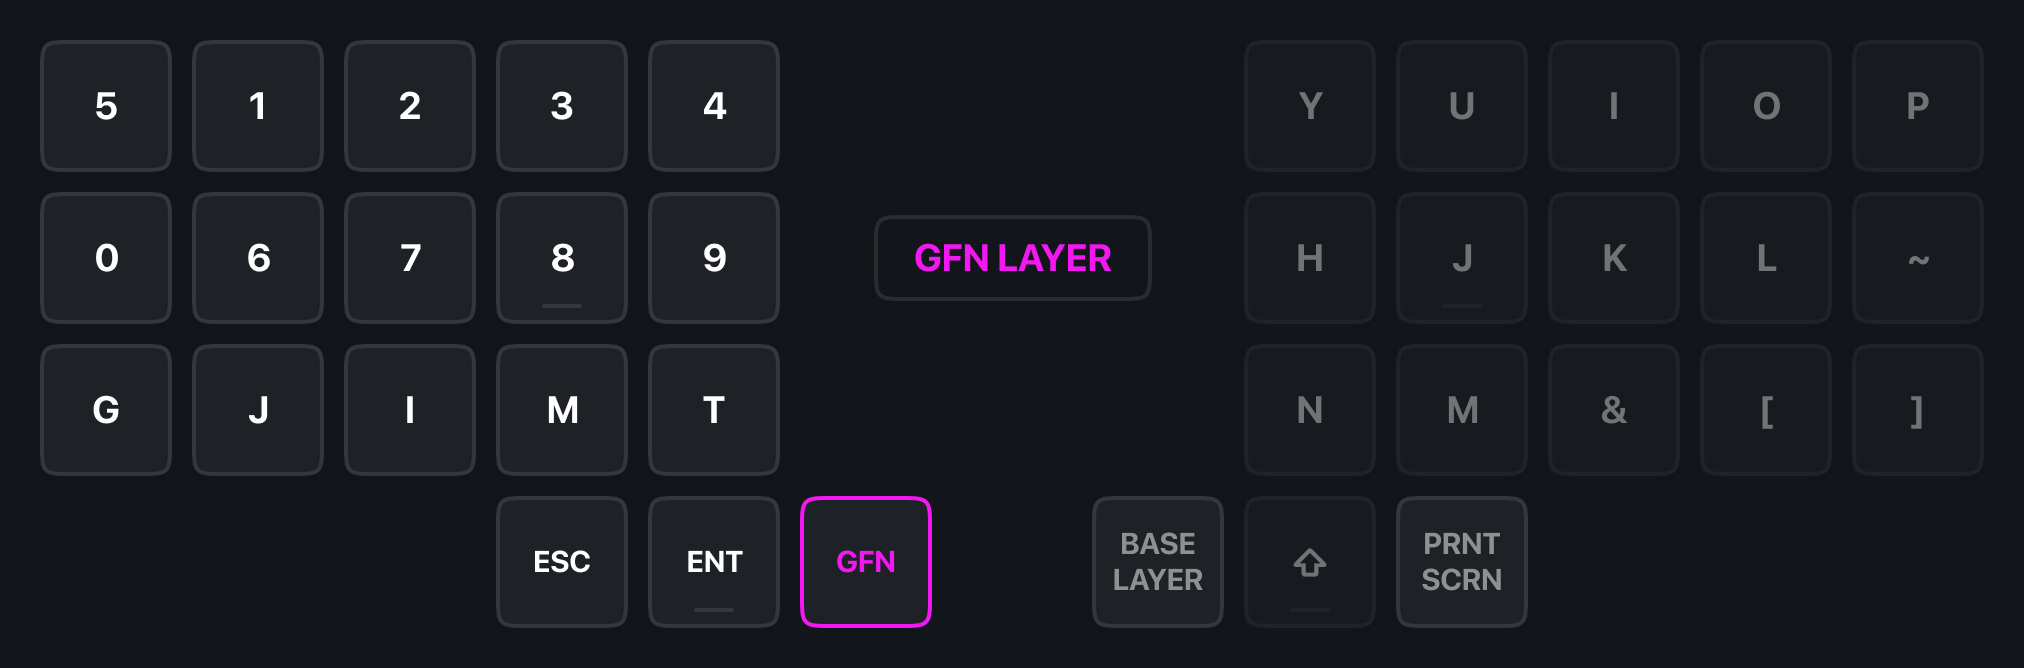
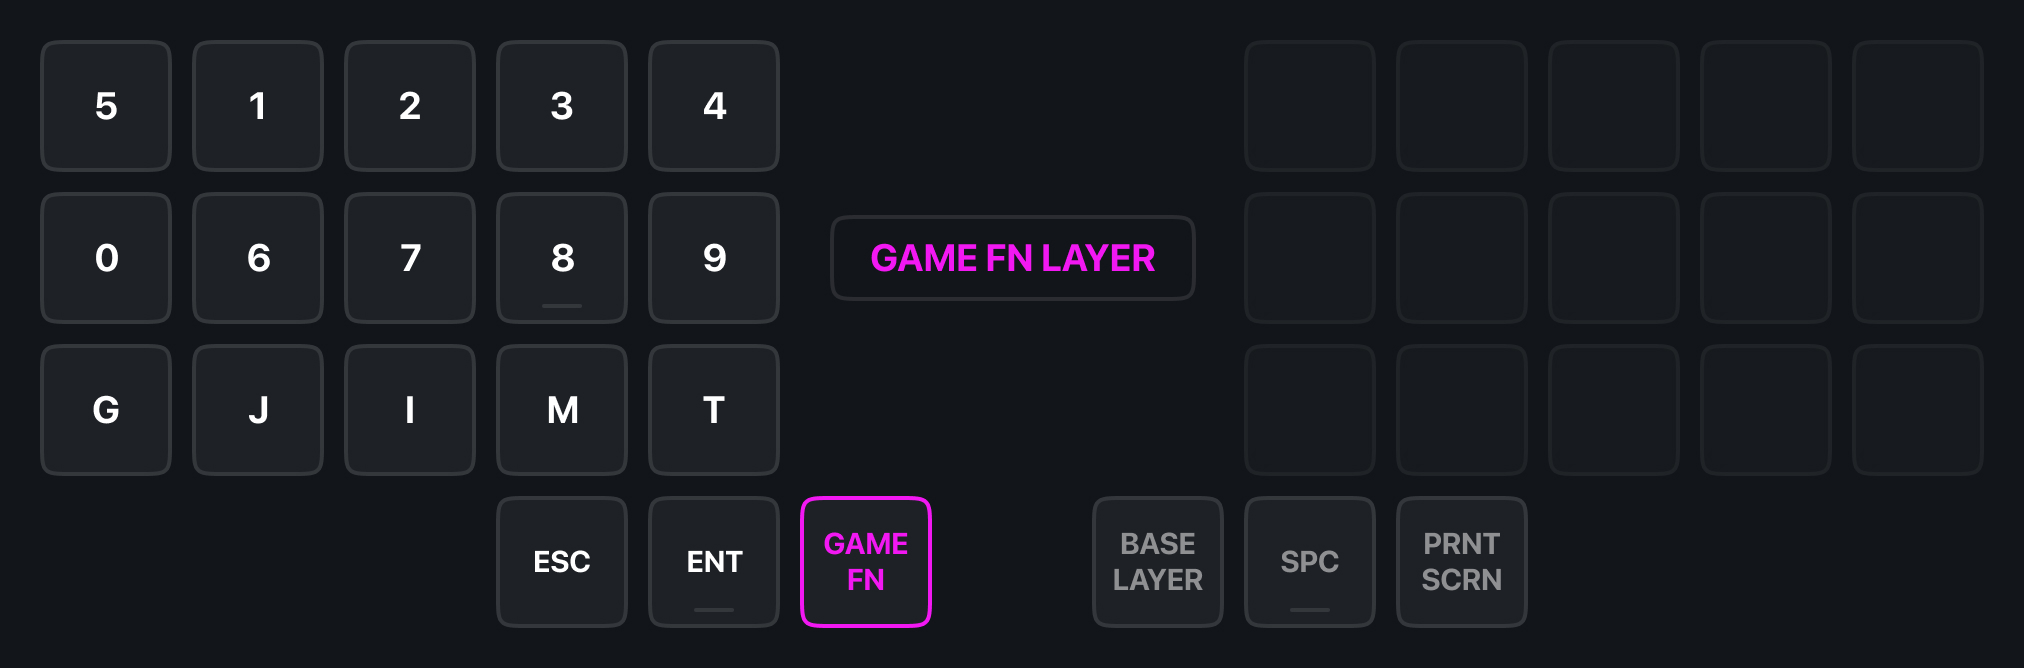
feat: modified GAM and GFN layouts, update images

diff --git a/firmware/keymap.c b/firmware/keymap.c
@@ -61,10 +61,10 @@ const uint16_t PROGMEM keymaps[][MATRIX_ROWS][MATRIX_COLS] = {
     ),
 
     [_GFN] = LAYOUT_split_3x5_3(
-        KC_5,    KC_1,    KC_2,    KC_3,    KC_4,           KC_Y,    KC_U,    KC_I,    KC_O,    KC_P,
-        KC_0,    KC_6,    KC_7,    KC_8,    KC_9,           KC_H,    KC_J,    KC_K,    KC_L,    KC_SCLN,
-        KC_G,    KC_J,    KC_I,    KC_M,    KC_T,           KC_N,    KC_M,    KC_COMM, KC_DOT,  KC_SLSH,
-                          KC_ESC,  KC_ENT, _______,        _______, _______, _______
+        KC_5,    KC_1,    KC_2,    KC_3,    KC_4,           KC_NONE,  KC_NONE, KC_UP,   KC_NONE,  KC_TAB,
+        KC_0,    KC_6,    KC_7,    KC_8,    KC_9,           KC_NONE,  KC_LEFT, KC_DOWN, KC_RGHT,  KC_RSFT,
+        KC_G,    KC_J,    KC_I,    KC_M,    KC_T,           KC_NONE,  KC_NONE, KC_NONE, KC_NONE,  KC_RCTL,
+                          KC_ESC,  KC_ENT, _______,         _______, _______, _______
     ),
 
     [_SYM] = LAYOUT_split_3x5_3(
@@ -77,7 +77,7 @@ const uint16_t PROGMEM keymaps[][MATRIX_ROWS][MATRIX_COLS] = {
     [_NAV] = LAYOUT_split_3x5_3(
         SW_TAB,  SW_WIN,  TAB_L,   TAB_R,   KC_ESC,         KC_ESC,  KC_HOME, KC_END,  KC_BSPC, KC_DEL,
         OS_CMD,  OS_ALT,  OS_CTRL, OS_SHFT, KC_ENT,         KC_ENT,  KC_LEFT, KC_DOWN, KC_UP,   KC_RGHT,
-        SPACE_L, SPACE_R, DF(_GAM), KC_PSCR, KC_TAB,        KC_TAB,  KC_PGUP, KC_PGDN, XXXXXXX, XXXXXXX,
+        SPACE_L, SPACE_R, DF(_GAM), KC_PSCR, KC_TAB,        KC_TAB,  KC_PGUP, KC_PGDN, KC_QUOT, KC_NUM,
                           _______, _______, _______,        _______, _______, _______
     ),
 

diff --git a/README_RU.md b/README_RU.md
@@ -25,9 +25,9 @@
 
 ## О прошивке
 
-Прошивка/раскладка предназначена для использования с [Universal Layout](https://github.com/braindefender/universal-layout) — системной раскладкой для Windows, Linux и macOS. На странице проекта можно найти все необходимые инструкции по установке и модификации этой раскладки.
+Прошивка/раскладка предназначена для использования с [Universal Layout](https://github.com/braindefender/universal-layout) — системной раскладкой для Windows, Linux и macOS. На странице проекта можно найти все необходимые инструкции по установке и модификации этой раскладки.
 
-Прошивка/раскладка основана на [callum](https://github.com/callum-oakley/qmk_firmware/tree/master/users/callum) и работает на [QMK](https://docs.qmk.fm/), предназначенном для проводных клавиатур. Версия для беспроводных клавиатур, работающих на [ZMK](https://zmk.dev/docs) находится в разработке.
+Прошивка/раскладка основана на [callum](https://github.com/callum-oakley/qmk_firmware/tree/master/users/callum) и работает на [QMK](https://docs.qmk.fm/), предназначенном для проводных клавиатур. Версия для беспроводных клавиатур, работающих на [ZMK](https://zmk.dev/docs) находится в разработке.
 
 ## Термины
 
@@ -39,7 +39,7 @@
 - Удерживайте <kbd>SYM</kbd> чтобы активировать слой символов.
 - Удерживайте <kbd>NAV</kbd> чтобы активировать слой навигации.
 - Удерживайте <kbd>SYM</kbd> и <kbd>NAV</kbd> вместе, чтобы активировать слой с цифрами.
-- Удерживайте <kbd>ALT</kbd> чтобы активировать слой спец. символов.
+- Удерживайте <kbd>ALT</kbd> чтобы активировать виртуальный слой спец. символов.
 
 ## Базовый слой
 
@@ -70,6 +70,8 @@
 На правой половинке расположены vim-подобные стрелочки, Home/End (сверху) и Page Up/Down (снизу).
 
 Клавиши <kbd>Escape</kbd>, <kbd>Enter</kbd> и <kbd>Tab</kbd> продублированы на обеих половинках, что удобно при в различных программах и редакторах, где только левая рука находится на клавиатуре, а правая держит мышь.
+
+> Так как BIOS или система, на которой не установлена [Universal Layout](https://github.com/braindefender/universal-layout), сопоставляют клавиши и символы стандартным способом, то для совместимости, на слое [NAV](#навигация) расположена клавиша KC_QUOT, на которой обычно расположены одиночная и двойная кавычки. Это может пригодиться для RDP или, например, при правке конфигов в Live-USB режиме Linux.
 
 ## Цифры и F-клавиши
 
@@ -138,7 +140,7 @@ WASD смещён на одну колонку вправо, чтобы вмес
 
 ## Как работает Swapper и Tabber
 
-Клавиши Swapper <kbd>NAV+W</kbd> и Tabber <kbd>NAV+Q</kbd> – это макросы для <kbd>Alt+Tab</kbd> и <kbd>Ctrl+Tab</kbd> соответственно. Однако при нажатии они оставляют зажатыми модификаторы <kbd>Alt</kbd> и <kbd>Ctrl</kbd> соответственно.
+Клавиши Swapper <kbd>NAV+W</kbd> и Tabber <kbd>NAV+Q</kbd> – это специальные макросы для <kbd>Alt+Tab</kbd> и <kbd>Ctrl+Tab</kbd> соответственно. Однако при нажатии они оставляют зажатыми модификаторы <kbd>Alt</kbd> и <kbd>Ctrl</kbd> соответственно.
 
 Таким образом, повторно нажимая W и Q можно переключаться по окнам в Windows, вкладкам в Веб-браузере или Терминале.
 
